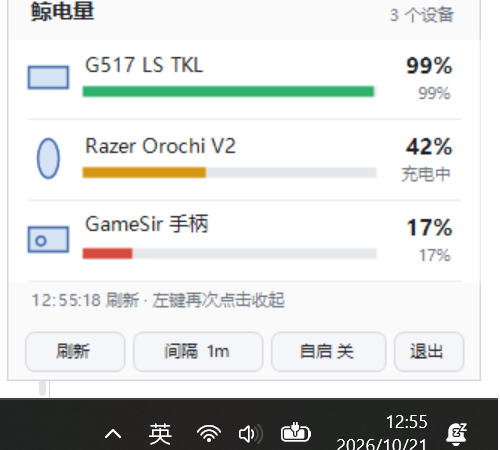
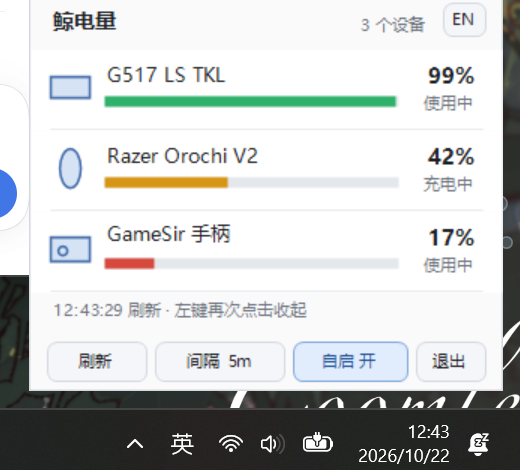
面板状态行：充电中/已充满 之外一律显示「使用中 / In use」，不再重复百分比

diff --git a/src/Model.cs b/src/Model.cs
@@ -44,6 +44,9 @@ namespace BattWhale
                 {
                     case BatteryState.Charging: return Strings.Charging;
                     case BatteryState.Full: return Strings.Full;
+                    // Discharging: the big number on the right already shows the percentage, so
+                    // this line says what the device is doing instead of repeating it.
+                    case BatteryState.Discharging: return Note.Length > 0 ? Note : Strings.InUse;
                     case BatteryState.Offline: return Note.Length > 0 ? Note : Strings.Asleep;
                     case BatteryState.Blocked: return Note.Length > 0 ? Note : Strings.Unreadable;
                     default: return Note.Length > 0 ? Note : (Percent >= 0 ? Percent + "%" : Strings.Unknown);

diff --git a/src/Strings.cs b/src/Strings.cs
@@ -84,6 +84,7 @@ namespace BattWhale
         // ---- device state ----
         public static string Charging { get { return Pick("充电中", "Charging"); } }
         public static string Full { get { return Pick("已充满", "Full"); } }
+        public static string InUse { get { return Pick("使用中", "In use"); } }
         public static string Asleep { get { return Pick("休眠中", "Asleep"); } }
         public static string Unreadable { get { return Pick("无法读取", "Unreadable"); } }
         public static string Unknown { get { return Pick("未知", "Unknown"); } }
